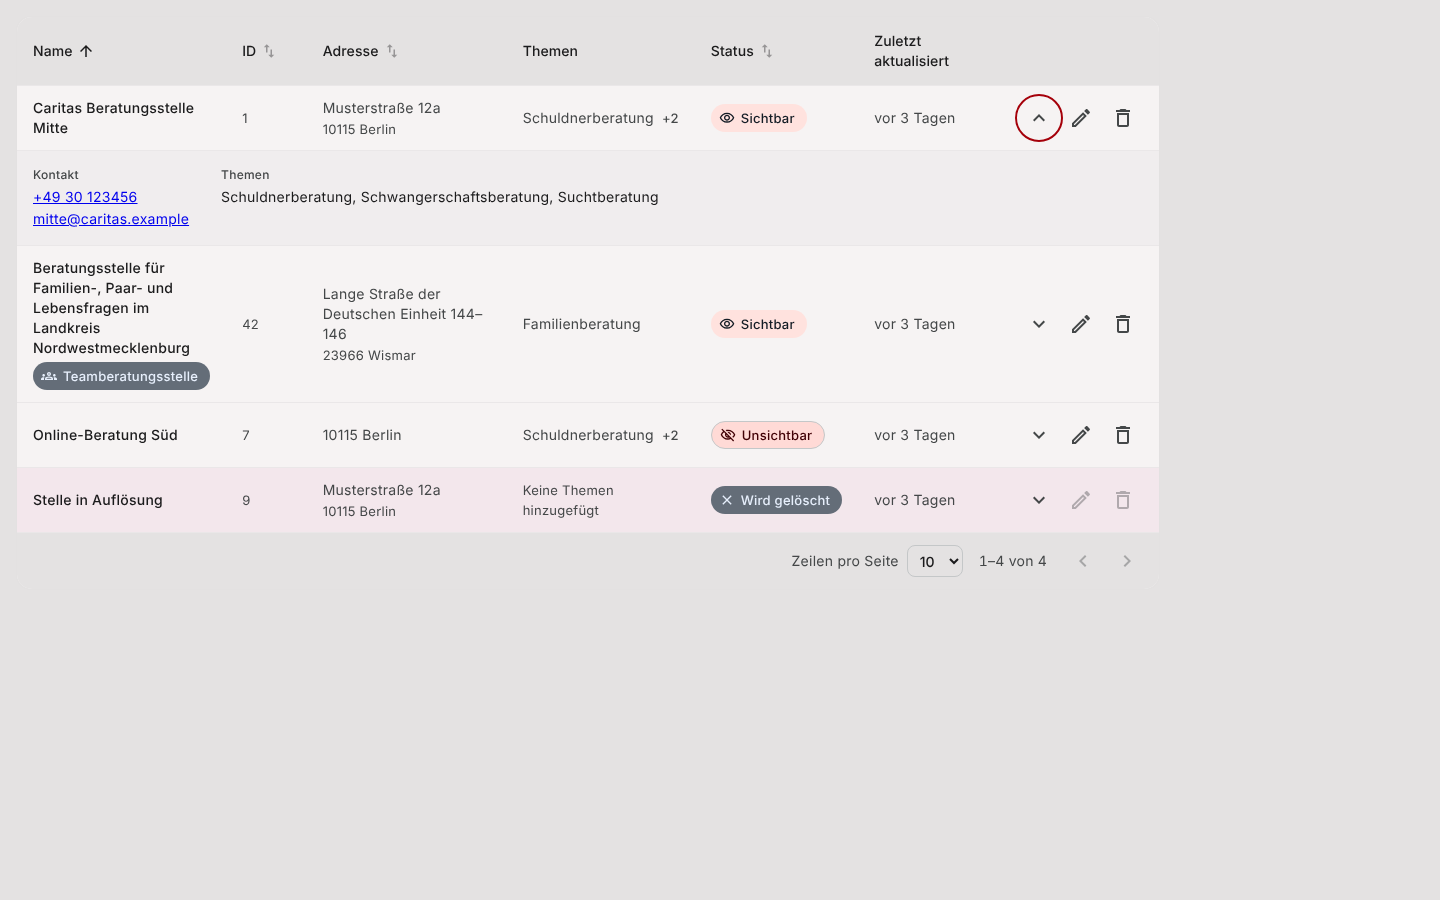
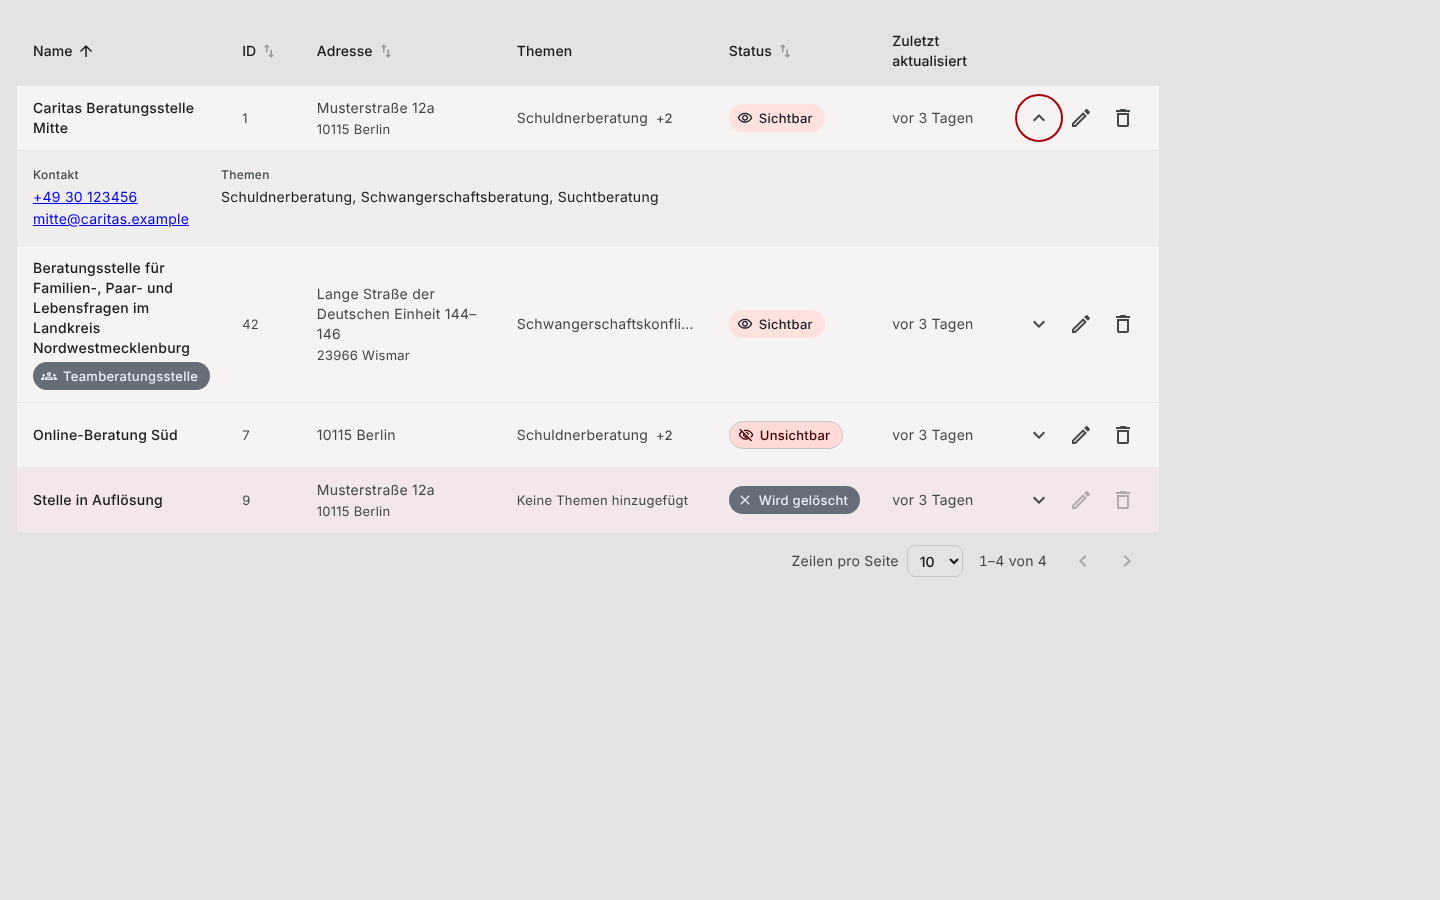
fix(agency): long topic names no longer widen the Beratungsstellen row
A percentage max-width does not limit a table cell's minimum width, so
one long topic name stretched the topics column and pushed the actions
out of the row. The topic cell is now capped at 180px (full name in the
tooltip and the expanded row), the story carries a long topic, and the
wide-row thresholds are re-measured: Träger admins keep the wide row at
1440px, platform admins with every column from 1290px.

Refs #1184

Claude-Session: https://claude.ai/code/session_012oHuLzC1VEzS4WmSmay9QH

diff --git a/src/pages/Agency/List/AgencyDataTable.stories.tsx b/src/pages/Agency/List/AgencyDataTable.stories.tsx
@@ -43,7 +43,8 @@ const ROWS: AgencyData[] = [
         postcode: '23966',
         city: 'Wismar',
         teamAgency: 'true',
-        topics: [{ id: 4, name: 'Familienberatung' }],
+        // A long topic name must not widen the row: the cell truncates it.
+        topics: [{ id: 4, name: 'Schwangerschaftskonfliktberatung nach § 219 StGB und Familienplanung' }],
     }),
     agency({ id: '7', name: 'Online-Beratung Süd', street: undefined, houseNumber: undefined, offline: true }),
     agency({ id: '9', name: 'Stelle in Auflösung', status: 'IN_DELETION', topics: [], phone: undefined }),
@@ -179,9 +180,9 @@ const expectLayout =
     };
 
 // Boundaries (responsive-tables.md): at and just below each measured threshold.
-/** Platform admin with every column: wide from 1270 px. */
-export const AllColumnsAtWideThreshold: Story = { args: { width: 1270 }, play: expectLayout('wide') };
-export const AllColumnsBelowWideThreshold: Story = { args: { width: 1269 }, play: expectLayout('tablet') };
+/** Platform admin with every column: wide from 1290 px. */
+export const AllColumnsAtWideThreshold: Story = { args: { width: 1290 }, play: expectLayout('wide') };
+export const AllColumnsBelowWideThreshold: Story = { args: { width: 1289 }, play: expectLayout('tablet') };
 
 /** No Träger and no topics column: wide from 920 px. */
 export const FewestColumnsAtWideThreshold: Story = {

diff --git a/src/pages/Agency/List/useAgencyTableLayout.ts b/src/pages/Agency/List/useAgencyTableLayout.ts
@@ -2,12 +2,13 @@ import type { RefObject } from 'react';
 import { listLayoutFor, useMeasuredListLayout, type ListLayout } from '../../../hooks/useMeasuredListLayout';
 
 // Measured on the list container (navigation rail and page gutters already taken), not the
-// viewport, in Storybook "Pages/Agency/AgencyList" (2026-11-01): the wide row needs 904px, plus
-// 145px for the Träger column and 188px for the topics column; the tablet row fits down to 640px.
+// viewport, in Storybook "Pages/Agency/AgencyList" (2026-11-01) with long names and topics: the
+// wide row needs 904px, the topics column (capped at 180px) 212px more. The Träger chip keeps
+// 150px so it stays readable. The tablet row fits down to 640px.
 const PHONE_BELOW = 640;
 const WIDE_BASE = 920;
 const WIDE_TENANT = 150;
-const WIDE_TOPICS = 200;
+const WIDE_TOPICS = 220;
 
 export interface AgencyTableColumns {
     tenant: boolean;

diff --git a/src/pages/Agency/List/useAgencyTableLayout.test.ts b/src/pages/Agency/List/useAgencyTableLayout.test.ts
@@ -4,14 +4,14 @@ import { agencyTableLayoutFor, wideFrom } from './useAgencyTableLayout';
 describe('agencyTableLayoutFor', () => {
     it('needs more room for the wide row when the Träger and topics columns are shown', () => {
         expect(wideFrom({ tenant: false, topics: false })).toBe(920);
-        expect(wideFrom({ tenant: true, topics: true })).toBe(1270);
+        expect(wideFrom({ tenant: true, topics: true })).toBe(1290);
     });
 
     it.each([
         [639, 'phone'],
         [640, 'tablet'],
-        [1269, 'tablet'],
-        [1270, 'wide'],
+        [1289, 'tablet'],
+        [1290, 'wide'],
     ] as const)('shows the %ipx list with every column as %s', (width, layout) => {
         expect(agencyTableLayoutFor(width, { tenant: true, topics: true })).toBe(layout);
     });

diff --git a/src/pages/Agency/List/agencyDataTable.module.scss b/src/pages/Agency/List/agencyDataTable.module.scss
@@ -69,7 +69,7 @@
 
 .topics {
     display: inline-flex;
-    max-width: min(100%, 220px);
+    max-width: 180px;
     align-items: center;
     gap: 8px;
 }
